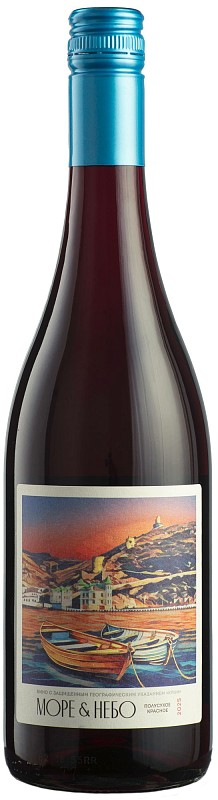
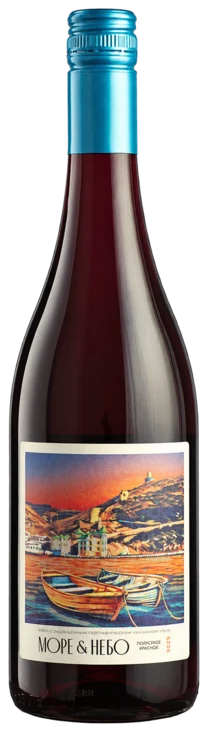
fix(webui): isolate Zolotaya Balka bottle images

diff --git a/webui/docs/product-line-maps/zolotaya-balka/sources.md b/webui/docs/product-line-maps/zolotaya-balka/sources.md
@@ -9,7 +9,7 @@ Date: 2026-10-16.
 - The map adds 2 products with official evidence and no confirmed snapshot identity.
 - Each snapshot card has one product. All alias arrays are empty.
 - Original catalog descriptions and grape lists are retained.
-- Catalog WebP files are copied without modification. SHA-256 values are in `crosswalk.json`.
+- The initial import copied catalog WebP files without modification. The current hashes and transformations are in `crosswalk.json`.
 - Official PNG and JPEG bottle images are converted to lossless WebP without cropping or resizing. Original URLs and asset hashes are in the crosswalk.
 - Numeric prices are null. Premium tiers are editorial relative positions.
 - A neutral tier means that the current relative price is not verified. It does not mean low quality.
@@ -83,3 +83,14 @@ The following catalog rows have `local_path: null`. The map uses `image: null` a
 - `zb-vajn-spumante-polusuhoe-beloe`
 
 All official addition images were visually checked against their product labels.
+
+## Background extraction, 2026-10-16
+
+10 display images use transparent cutouts from the built-in `image_gen` tool.
+Read [imagegen-cutouts.json](imagegen-cutouts.json) for every exact prompt, source hash, generated PNG hash, output hash, and review note.
+The review checks product identity, main label text, cap, color, and artwork at the UI display size.
+Imagegen resamples fine print and reflections. The generated images are not evidence for label microtext.
+The product facts remain sourced from the catalog and official pages.
+The final frame excludes faint transparent outliers. The conversion preserves alpha and fits the cropped image into 720 px height before padding.
+The WebP quality is 88. The alpha quality is 100. Each file has 6 px transparent padding.
+Unedited images retain their previous bytes. Original edited-image bytes remain in Git revision `89aa3780`.

diff --git a/webui/ChangeLog.md b/webui/ChangeLog.md
@@ -37,6 +37,12 @@
   Metrika now records the title of the new page, not the title of the previous page (#40).
   Production release `10632011` does not have this fix.
 
+## 2026-10-16 — Zolotaya Balka bottle cutouts
+
+- Replace 10 background images with reviewed transparent imagegen display assets.
+- Fit the bottle frame and optimize WebP transfer size for desktop and mobile.
+- Record exact prompts, source hashes, output hashes, and imagegen limitations.
+
 ## 2026-10-16 — Derbent Vino bottle cutouts
 
 - Replace 5 background images with reviewed transparent imagegen display assets.
